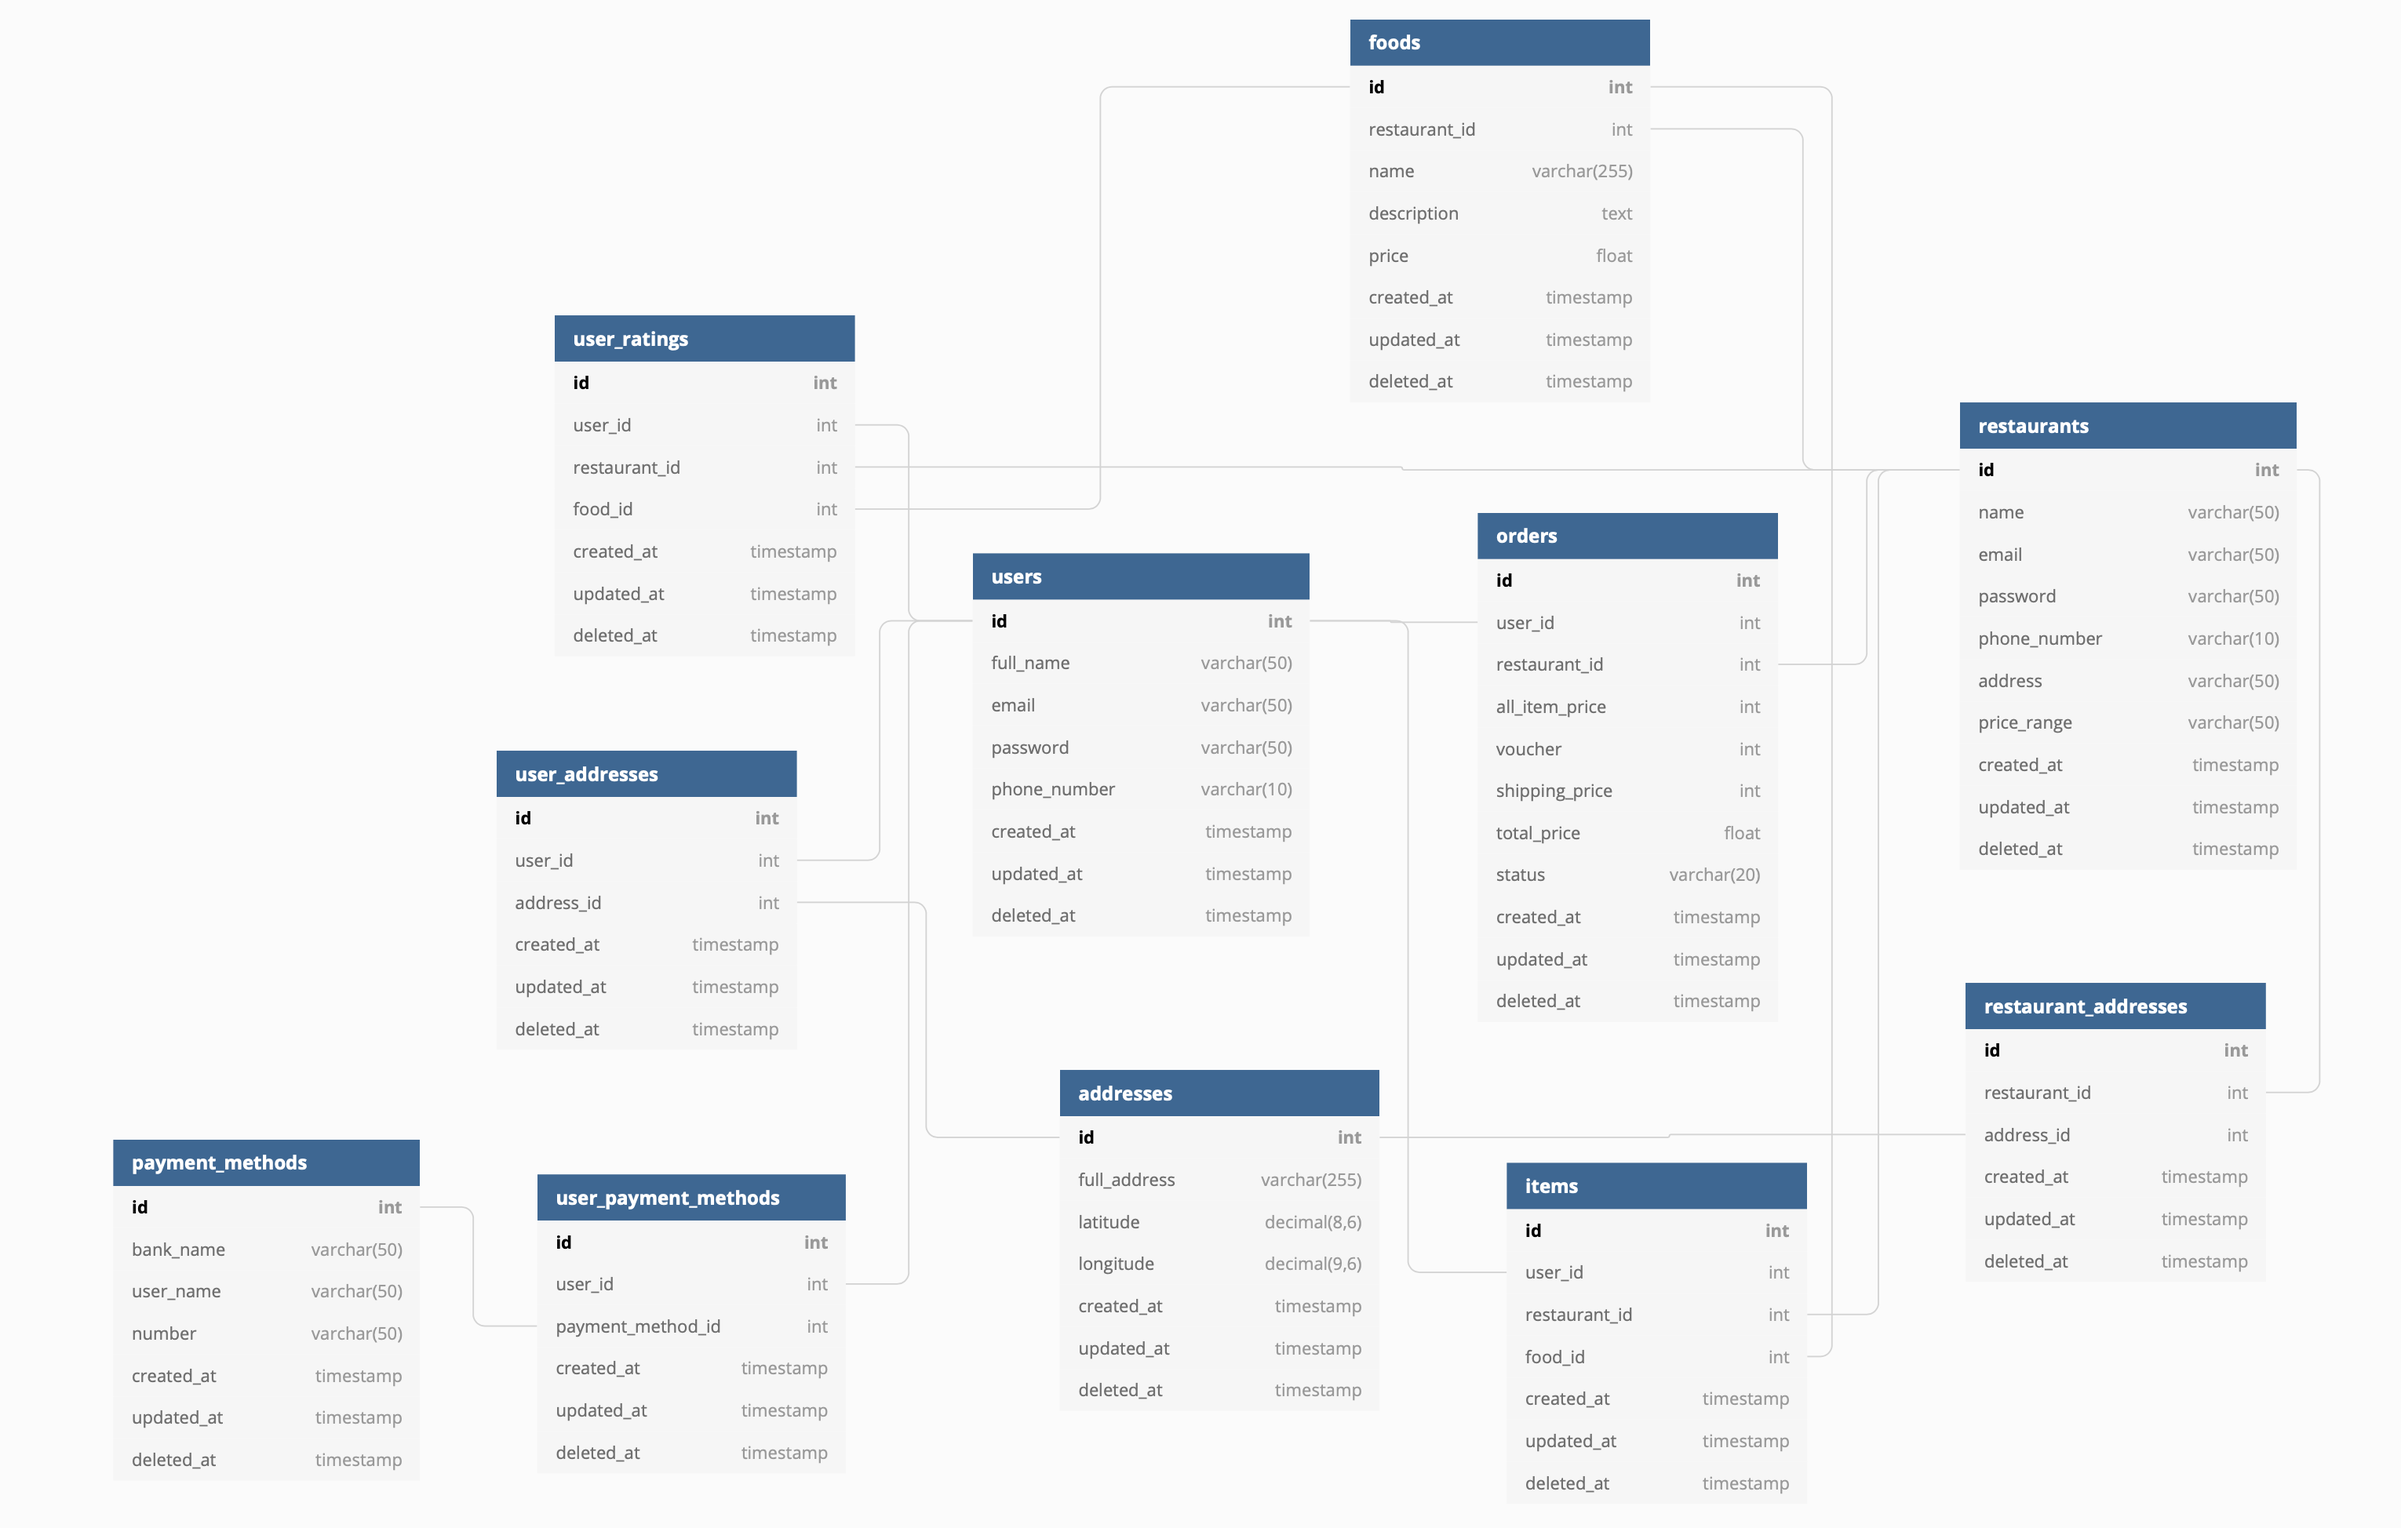
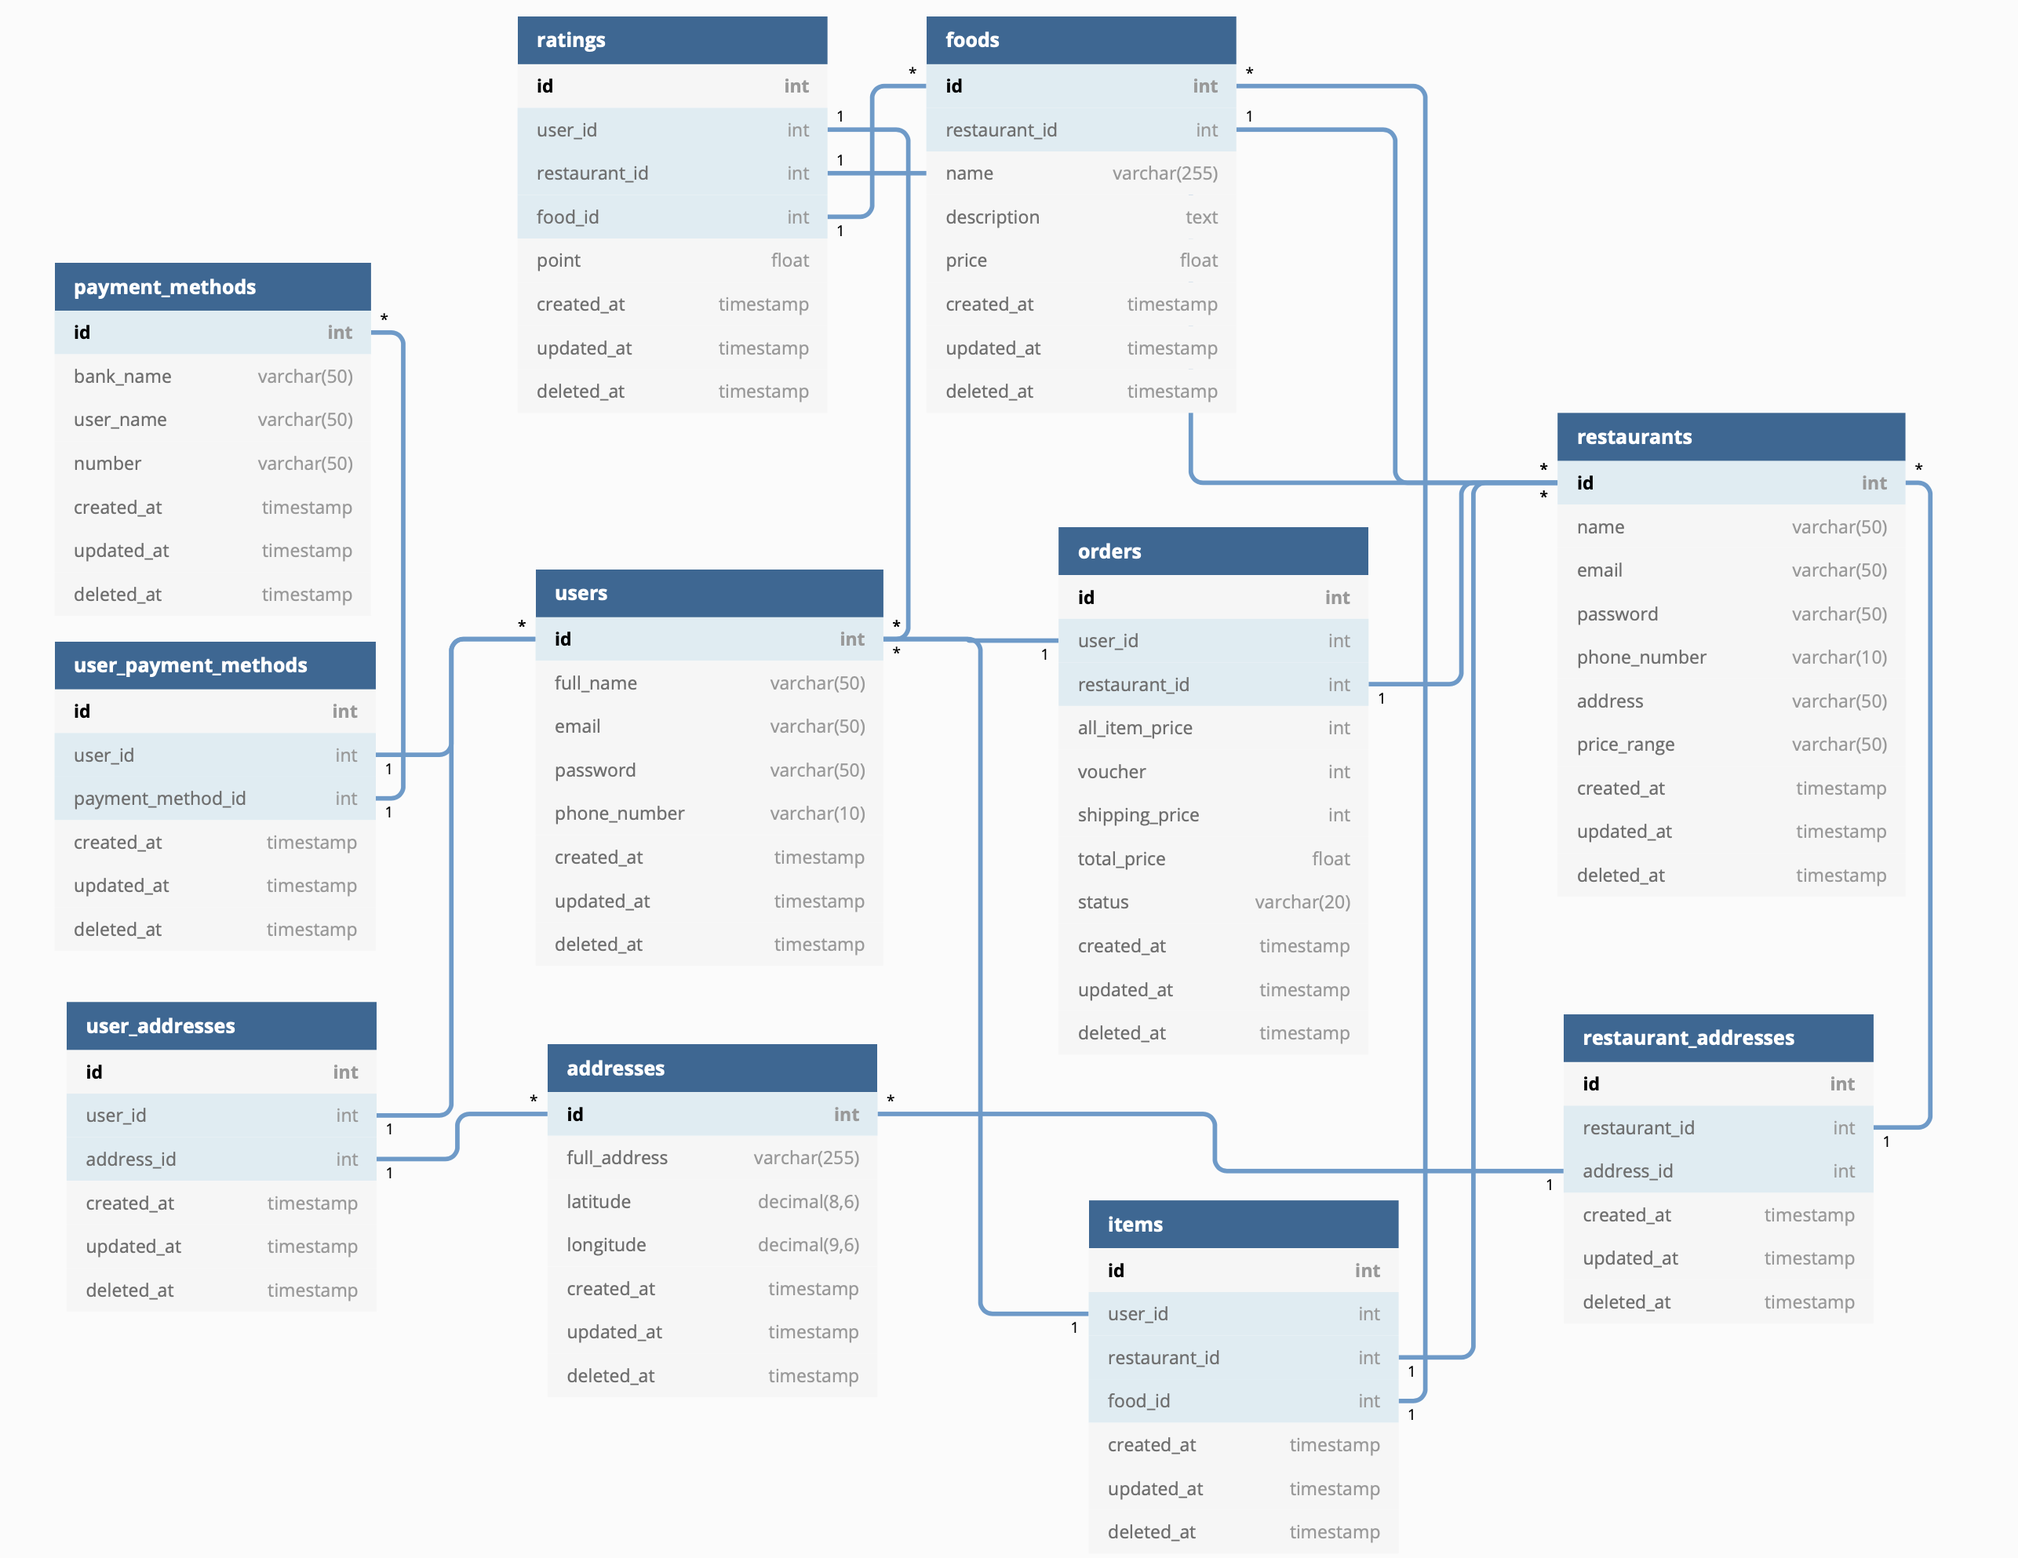
fix diagram and readme

diff --git a/README.md b/README.md
@@ -20,11 +20,28 @@ User:
 | get single     | GET    | users/:usr-id           | add token later         |   []   |
 | update single  | PUT    | users/:usr-id           |                         |   []   |
 | delete single  | DELETE | users/:usr-id           | only admin              |   []   |
-| update address | PUT    | users/:usr-id/address   |                         |   []   |
 | update payment | PUT    | users/:usr-id/payment   |                         |   []   |
 | favorite food  | PUT    | users/:usr-id/food      |                         |   []   |
 | favorite res   | PUT    | users/:usr-id/res       | restaurant              |   []   |
 | rating         | PUT    | users/:usr-id/rating    | rate & review           |   []   |
+
+Address:
+    
+| API               | Method | URL                     | Notes/TODO            | Done   |
+| ----------------- |:------:|:------------------------|:----------------------| :----: |
+| create new        | POST   | addresses               |                       |   []   |
+| update address    | PUT    | addresses/:add-id/      |                       |   []   |
+| get address       | GET    | addresses/:add-id/      |                       |   []   |
+| get all addresses | GET    | addresses               |                       |   []   |
+
+Payment Method:
+    
+| API               | Method | URL                     | Notes/TODO            | Done   |
+| ----------------- |:------:|:------------------------|:----------------------| :----: |
+| create new        | POST   | payment-methods         |                       |   []   |
+| update address    | PUT    | payment-methods/:pm-id/ |                       |   []   |
+| get address       | GET    | payment-methods/:pm-id/ |                       |   []   |
+| get all addresses | GET    | payment-methods         |                       |   []   |
 
 
 Restaurant:
@@ -37,11 +54,16 @@ User:
 | get all res     | GET    | restaurants                 | only admin & pagination |   []   |
 | update res      | PUT    | restaurants/:res-id         |                         |   []   |
 | delete res      | DELETE | restaurants/:res-id         | only admin              |   []   |
-| create new food | POST   | restaurants/:res-id/foods   |                         |   []   |
-| update food     | PUT    | restaurants/:res-id/food    | only res admin          |   []   |
-| delete food     | DELETE | restaurants/:res-id/food    | only res admin          |   []   |
-| get all foods   | GET    | restaurants/:res-id/foods   | pagination              |   []   |
 
+
+Food:
+    
+| API             | Method | URL                         | Notes/TODO              | Done   |
+| --------------- |:------:|:----------------------------|:------------------------| :----: |
+| create new food | POST   | foods                       |                         |   []   |
+| update food     | PUT    | foods/:food-id              | only res admin          |   []   |
+| delete food     | DELETE | foods/:food-id              | only res admin          |   []   |
+| get all foods   | GET    | foods                       | pagination              |   []   |
 
 Order:
 
